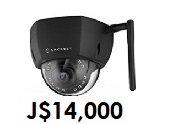
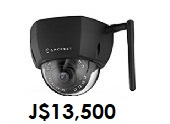
up

Changed region(s): [[0.1471, 0.7984, 0.7353, 0.9919]]

diff --git a/cam-0.html b/cam-0.html
@@ -87,12 +87,12 @@ http://www.templatemo.com/preview/templatemo_428_kool_store
 			</div> <!-- /.product-image -->
 										
                     <div class="product-information">
-                        <h4>2MP Wireless Outdoor Security Camera ProHD 1080P / 1296P (2304TVL) Bullet IP WiFi 
+                        <h4>1.3 MP Wireless Outdoor Security Camera ProHD 1080P / 1296P (2304TVL) Bullet IP WiFi 
 						Outdoor Camera - Full HD 1080P @ 30fps and 1296P @ 20fps, IP67, 98ft Night Vision</h4>
 						
 					 	<p>
 							<h4>Features: </h4>
-							<li>Magnificent Ultra High Definition 2-Megapixel  at 20fps  with Latest Ambarella Chipset for Beyond-Amazing Picture Quality and Clarity. </li><br>
+							<li>Magnificent Ultra High Definition 1.3-Megapixel  at 20fps  with Latest Ambarella Chipset for Beyond-Amazing Picture Quality and Clarity. </li><br>
 							<li>Embedded microSD card slot that supports up to 64GB microSD cards (not included). </li><br>
 							<li>Quick and Easy Wi-Fi Setup via iOS or Android Device with Amcrest View App, Stream Video Directly to Your Smartphone, Tablet, Apple Mac or Windows PC</li><br>
 							<li>Great Field of View with Wide 100º Viewing Angle, Intelligent Digital Zoom and Night Vision upto 98ft</li><br>
@@ -101,7 +101,7 @@ http://www.templatemo.com/preview/templatemo_428_kool_store
 
 						</p>
 						<p class="product-infos">
-                            <span>Price: J$15,500.00</span>
+                            <span>Price: J$13,500.00</span>
                              <span>Call to order</span>
                         </p>
 						 <ul class="product-buttons">

diff --git a/products.html b/products.html
@@ -116,8 +116,8 @@ http://www.templatemo.com/preview/templatemo_428_kool_store
                             <img src="images/products/0.jpg" href="cam-0.html">
                         </div> <!-- /.product-thum -->
                         <div class="product-content">
-                            <h5><a href="cam-0.html">2MP Outdoor Wireless IP Dome Camera </a></h5>
-                            <span class="price">J$14,000.00</span>
+                            <h5><a href="cam-0.html">1.3MP Outdoor Wireless IP Dome Camera </a></h5>
+                            <span class="price">J$13,500.00</span>
 							 <!--<font face ="Arial Black" color="#49FC00"><u>IN STOCK</u></font> -->
                         </div> <!-- /.product-content -->
                     </div> <!-- /.product-item -->
@@ -193,7 +193,7 @@ http://www.templatemo.com/preview/templatemo_428_kool_store
                             <img src="images/products/6.jpg" alt="">
                         </div> <!-- /.product-thum -->
                         <div class="product-content">
-                            <h5><a href="http://www.123contactform.com/form-3037420/Contact-Lead-Form">Need more than 8 Camers, ClICK HERE to contact us.</a></h5>
+                            <h5><a href="http://www.123contactform.com/form-3037420/Contact-Lead-Form">Need more than 8 Cameras, ClICK HERE to contact us.</a></h5>
                             <span class="price"> <span>
 							<!-- <font face ="Arial Black" color="#49FC00"><u>IN STOCK</u></font>
 							<font face ="Arial Black" color="#F49191"><u>OUT OF STOCK</u></font> -->
